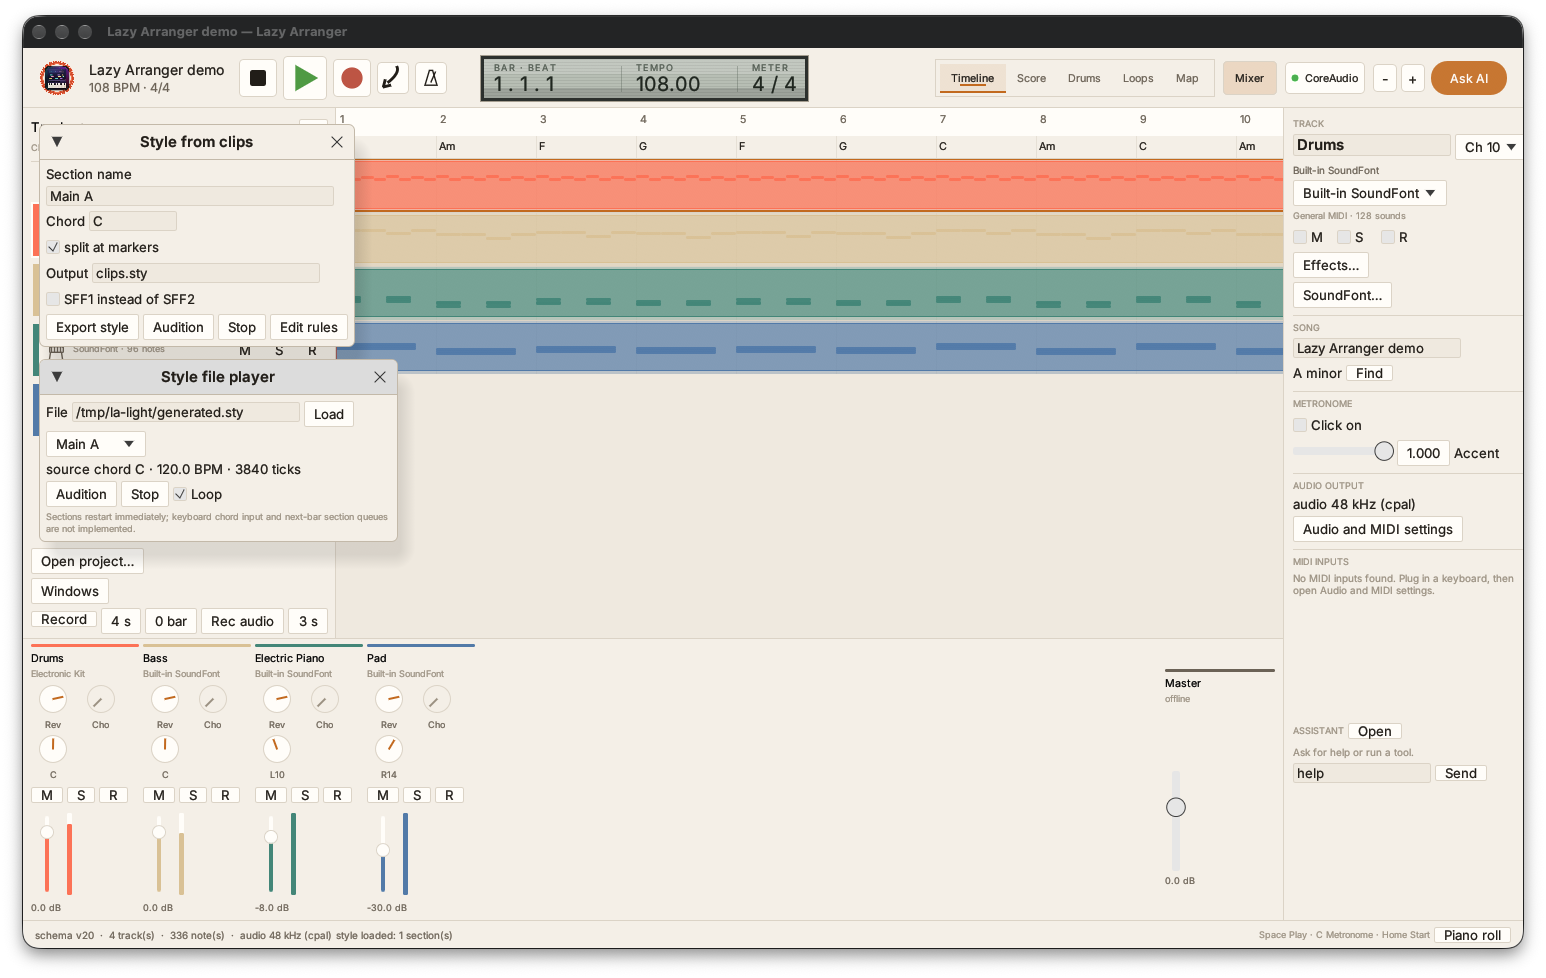
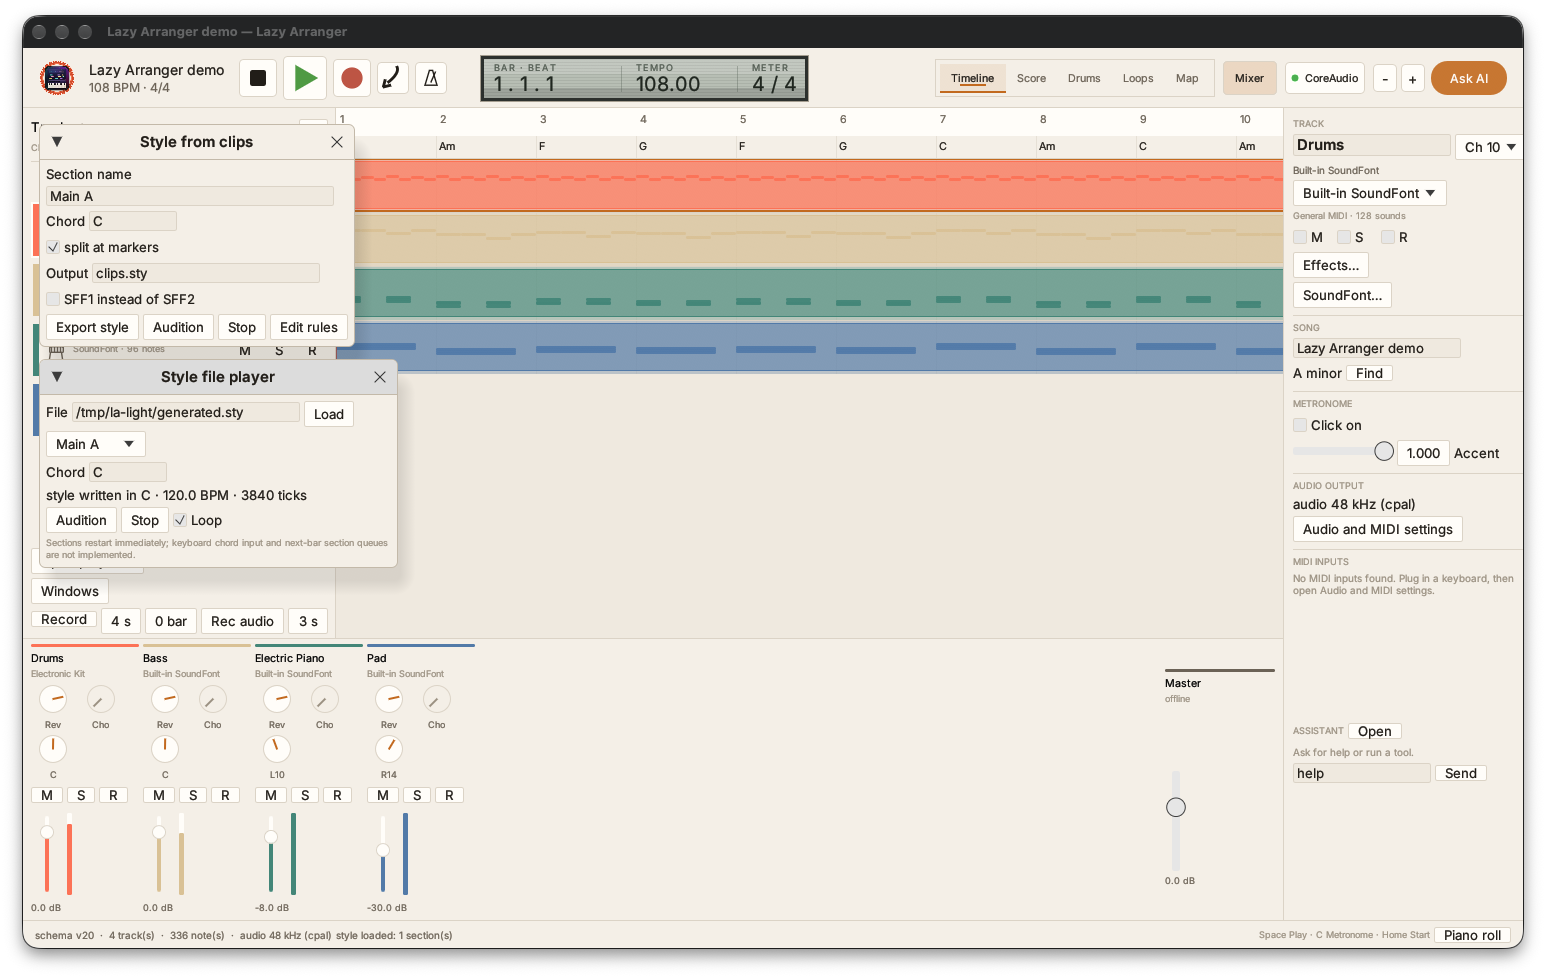
feat(styles): audition a style section at an entered chord
The style file player now converts a chord symbol and compiles the selected
section against it; the synthetic-style test covers the path.

727 tests pass; clippy, fmt and rustdoc clean.

Changed region(s): [[0.031, 0.4601, 0.2794, 0.6135]]

diff --git a/apps/desktop/src/app.rs b/apps/desktop/src/app.rs
@@ -416,14 +416,25 @@ fn style_preview_song(style: &arranger::style::Style) -> Result<project::Song, S
 fn style_section_song(
     imported: &style_formats::ImportedStyle,
     section: usize,
+    chord_name: &str,
 ) -> Result<project::Song, String> {
     let names = imported.section_names();
     let name = names
         .get(section)
         .ok_or_else(|| String::from("no section selected"))?;
+    let chord = music_core::Chord::parse(chord_name).map_err(|error| error.to_string())?;
+    let arranger_chord =
+        arranger::ArrangerChord::try_from(&chord).map_err(|error| error.to_string())?;
     let compiled = imported
         .native
-        .compile(name, 0, &[])
+        .compile(
+            name,
+            0,
+            &[arranger::ChordAt {
+                tick: 0,
+                chord: arranger_chord,
+            }],
+        )
         .map_err(|error| error.to_string())?;
     let mut song = project::Song::new("Style audition", imported.tempo_bpm.max(30.0));
     let mut track = project::song::Track::new(
@@ -4148,8 +4159,14 @@ impl ShellApp {
                             ui.selectable_value(&mut self.style_section, index, *name);
                         }
                     });
+                ui.horizontal(|ui| {
+                    ui.label("Chord");
+                    ui.add(
+                        egui::TextEdit::singleline(&mut self.style_chord).desired_width(70.0),
+                    );
+                });
                 ui.label(format!(
-                    "source chord {} · {:.1} BPM · {} ticks",
+                    "style written in {} · {:.1} BPM · {} ticks",
                     imported.native.source_chord.name(),
                     imported.tempo_bpm,
                     imported.native.sections[self.style_section].length_ticks
@@ -4193,7 +4210,7 @@ impl ShellApp {
             .style_import
             .as_ref()
             .ok_or_else(|| String::from("load a style first"))?;
-        style_section_song(imported, self.style_section)
+        style_section_song(imported, self.style_section, &self.style_chord)
     }
 
     fn style_clips_window(&mut self, context: &Context) {
@@ -10833,7 +10850,7 @@ mod tests {
             sections: Vec::new(),
             stats: style_formats::ImportStats::default(),
         };
-        let preview = style_section_song(&imported, 0).expect("section");
+        let preview = style_section_song(&imported, 0, "C").expect("section");
         assert_eq!(preview.tracks.len(), 1);
         assert!(!preview.tracks[0].notes.is_empty());
     }

diff --git a/docs/audit/cpp-features-crosscheck.md b/docs/audit/cpp-features-crosscheck.md
@@ -20,7 +20,7 @@ section below is a row, so nothing is skipped. Status: **verified**,
 | 11 | Beat view | partial | Four drum rows by sixteen steps with off/soft/normal/loud cycling, read from and written to a bar as one undo step, B opens the grid. rows have C/P/X copy, paste and clear buttons (model row/set_row/clear_row); patterns cover 1, 2 or 4 bars in a horizontally scrolling grid with the span cleared and rewritten; Put-in-bars writes the pattern across four bars as one edit; four-bar grids scroll horizontally; longer clip navigation remains absent |
 | 12 | Clip grid | partial | Scenes of N bars, slots, a bar-quantised launcher with waiting/cancel/log, scene recording to the timeline as undoable edits, `get_clip_grid`. Loops view shows scene rows and track slots, queues on click and records a take. The grid shows track column headers and a Rename button; right-click a slot to clear, set 1/2 bars or copy to the playhead. Scene names persist and can be renamed; slot length, clear and copy-to-tick work and are exposed as `edit_slot`. A Launchkey pad preset maps notes 36-51 to pad audition; no audio-loop library |
 | 13 | Smart chords | partial | Chord parsing, transposition, progression text, roman numerals in the chosen key, chord lane with K entry, 16 key-aware pads, and a suggestion function with dialog buttons. Reharmonize rules and dialog. Find Chords from the Music (pitch-class recognition, slash bass). Inversions/voicings as ascending pitch sets with A/B WAV audition (`voicing C --out-dir` wrote a.wav and b.wav). A Settings toggle detects chords after MIDI recording and a Launchkey pad preset maps notes 36-51 to pad audition; no real-time chord capture |
-| 14 | Styles | partial | Yamaha open, import, compile on chords, **save container (SFF1/SFF2, real 15-section style rewritten)**; `style_from_clips` (MCP), `style-from-clips` (CLI) and a Windows > Style from clips dialog build an SFF from a project's tracks with default channel rules; `--from-markers` writes one section per marker (demo: A and B, 8 bars each, 168 notes each, re-read cleanly), otherwise one section from `--length`; dialog capture `docs/audit/style-clips.png`. Track program and bank-select events now round-trip through the SMF reader/writer and the style writer and are editable from the Inspector Bank row; a Style file player loads a Yamaha style, selects a section, shows source chord/tempo/length and auditions it with optional loop (`docs/audit/style-file.png`); Korg, live keyboard chords, next-bar section queues, XG voices and the SInt setup region remain absent; a basic rules editor (destination channel, written root/type, NTR/NTT, held-note RTR, bass, high key/limits) edits the style draft before export, and an Audition button renders the style to a temporary song and plays it. Catalog resolution by number or name (`style-resolve`) matched a real library entry; a PCG scanner now recognises the KORG marker and model name only, with no program or combi decoding |
+| 14 | Styles | partial | Yamaha open, import, compile on chords, **save container (SFF1/SFF2, real 15-section style rewritten)**; `style_from_clips` (MCP), `style-from-clips` (CLI) and a Windows > Style from clips dialog build an SFF from a project's tracks with default channel rules; `--from-markers` writes one section per marker (demo: A and B, 8 bars each, 168 notes each, re-read cleanly), otherwise one section from `--length`; dialog capture `docs/audit/style-clips.png`. Track program and bank-select events now round-trip through the SMF reader/writer and the style writer and are editable from the Inspector Bank row; a Style file player loads a Yamaha style, selects a section, takes a chord, shows the written chord/tempo/length and auditions with optional loop (`docs/audit/style-file.png`); Korg, live keyboard chords, next-bar section queues, XG voices and the SInt setup region remain absent; a basic rules editor (destination channel, written root/type, NTR/NTT, held-note RTR, bass, high key/limits) edits the style draft before export, and an Audition button renders the style to a temporary song and plays it. Catalog resolution by number or name (`style-resolve`) matched a real library entry; a PCG scanner now recognises the KORG marker and model name only, with no program or combi decoding |
 | 15 | Style from Audio and Link | partial | Link→monophonic MIDI; `style-from-audio` turns a decoded audio file's monophonic detected notes into a one-part SFF, with `--chord auto` picking the strongest chroma-recognized chord (C-major chord test: source C, re-read C); generated rules now carry the source chord. `--split-parts` separates notes below C3 into Bass (channel 11) and the rest into Chord 1 (channel 12); `--section-bars` makes uniform sections (6-second low/high fixture: Main A and Main B, one bar each, durations clipped at boundaries). An optional Drums part is derived from onsets and low/high band energy (low hit test maps to kick 36); `--detect-tempo` estimates BPM from onset spacing (click fixture: 119.68 bpm); the same builder is exposed by the desktop dialog (`docs/audit/style-from-audio.png`), CLI and MCP. No analysis-driven section names, stems or match scores |
 | 16 | Score view | partial | MusicXML export/import with `<harmony>` chords, drum instrument ids, `<sound dynamics>`, slurs and a round-trip audit. On the demo tracks, chords (16), lyrics (2), marks (2), drums and the pitched detail are preserved (186 = 186 after merging 22 ties). A style-derived project with mixed drum/pitched tracks and overlapping notes now keeps all 1,423 pitched notes (counts and tie merges), but one chord-group note starts at a different tick inside an overlap; `<backup>` was added for overlaps, and MusicXML still cannot express every simultaneous overlap we hold, which is recorded as a limitation plus a toolkit-independent layout engine (pages, systems, measures, positioned notes, CLI report). An egui page canvas renders staff lines, barlines, noteheads, page navigation and zoom from the layout. Key detection, spelling, accidentals, canvas, vector PDF, per-pitch ties and a lyric line (40-bar two-page acceptance test). Dynamics and articulations are marks in schema v11, exchanged as MusicXML directions and drawn by both renderers. Note entry: with Note entry enabled, a click on the score inserts a note at a quarter-quantised tick and the staff pitch through one undoable command. A grand-staff toggle, beams, tuplet brackets, ties, rests in gaps/empty measures, augmentation dots (notes and rests) and articulation glyphs now draw on canvas and PDF; phrase slurs (schema v18) draw as curves, are exposed by `get_slurs`/`set_slurs` and round-trip as MusicXML `<slur>` notations; a drum track gets a one-line percussion staff with x noteheads on canvas and PDF; lyrics shift right when crowded; chord names are drawn above the staff on canvas and PDF, common major/minor/seventh chords get guitar frames (slash chords or unlisted qualities get none); the Score view has a path field, Save PDF and a Print dialog with printer, copies and page ranges via `lp`; chord names and guitar frames draw on canvas and PDF with a top reserve, the song title draws inside the page margin, one lyric per chord tick, PDF text uses the dark fill; four 4/4 measures fit a system and the song meter draws at each system start, measure numbers draw above the staff, `docs/audit/score-page.png` shows the balanced layout, and a headless test checks canvas text; and a headless egui test verifies the canvas title, chord name and measure number shapes; dense rhythms widen their measures and crowded accidentals shift left; Shift-drag resizes a note's duration (quarter-quantised); augmentation dots move into the space above when their notehead or rest sits on a staff line (no other vertical rest collision handling); The primary Score view and PDF now use the bundled Cecilia 0.51 engraver through a Song→Cecilia adapter (key signature and subtitle, G/F clefs, grand staff, tempo and chords, PNG pages); the legacy vector editor remains behind the Cecilia-preview toggle; printing uses `lp`, not an OS print panel |
 | 17 | Mixer and buses | partial | Tracks carry fader, pan, mute/solo and automation; buses (schema v13) have volume and pan, tracks route to a bus and can send a copy at a level, and the render sums bus buffers after the tracks. Mix view shows bus rows with volume/pan/remove and an Add bus action plus a per-track routing picker (`docs/audit/mix.png`). Mix rows add a send-bus picker and send-level slider over the same routing command; Loops slots have a right-click menu for clear, one-bar length and copy to playhead. Master gain and a soft limiter apply to playback and `export-audio` (`--gain-db`, `--no-limiter`), and the export prints peak/RMS; master reverb and chorus wet amounts (feedback-delay reverb and modulated-delay chorus, applied after gain before the limiter) are settable in the Mixer and Settings and used by playback/`export-audio --reverb/--chorus`; master peak/RMS bars and per-track peak badges draw while playing (track levels come from offline stems; other master effects absent) |

diff --git a/docs/audit/final-status.md b/docs/audit/final-status.md
@@ -135,4 +135,4 @@ For the clef layout, choose either four measures per system without clefs
 - Timeline clips drag to move or resize on a 1/16 grid with a live ghost preview.
 - Settings can auto-open all MIDI inputs; no hardware verification yet.
 - Check for updates reads the GitHub latest release and compares versions; no download/install; external endpoint unverified.
-- Style file player loads a Yamaha style and auditions selected sections with optional loop; no keyboard chord input or next-bar queue (`docs/audit/style-file.png`).
+- Style file player loads a Yamaha style and auditions selected sections at an entered chord with optional loop; no keyboard chord input or next-bar queue (`docs/audit/style-file.png`).
